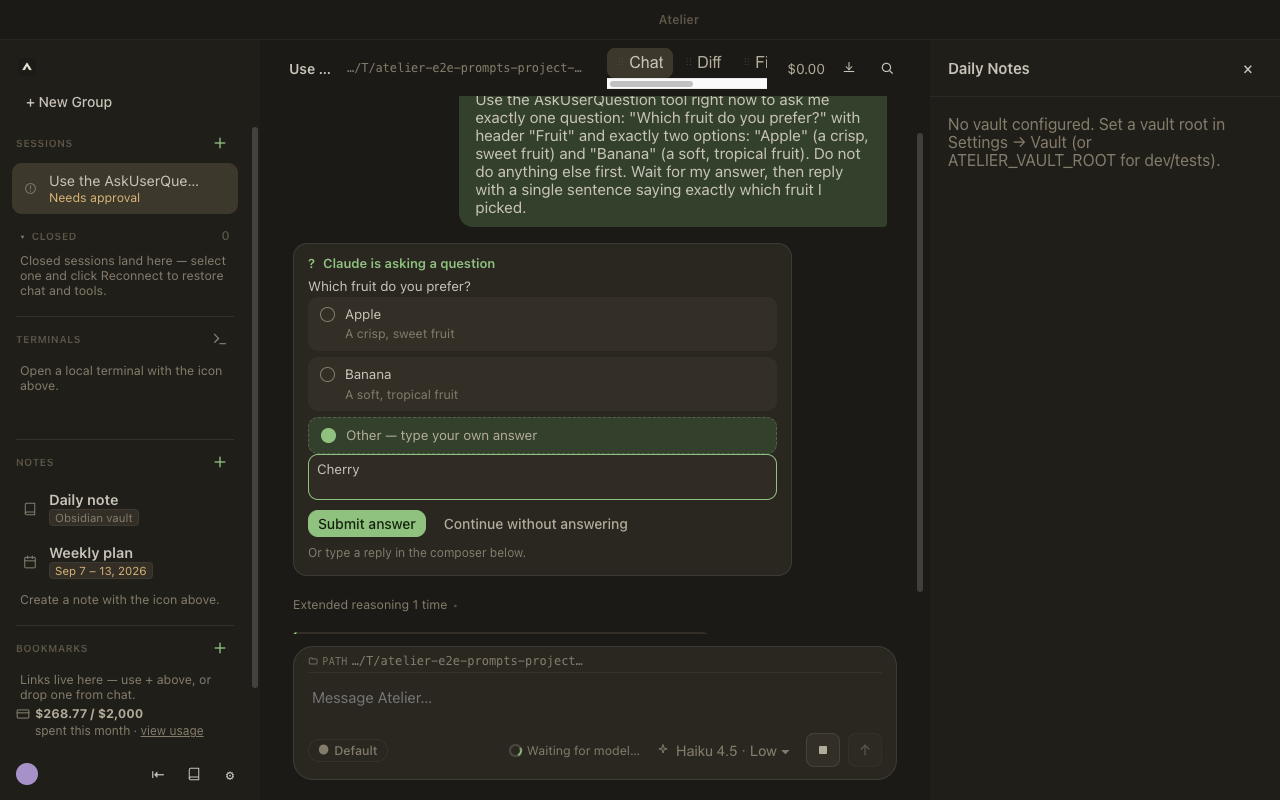
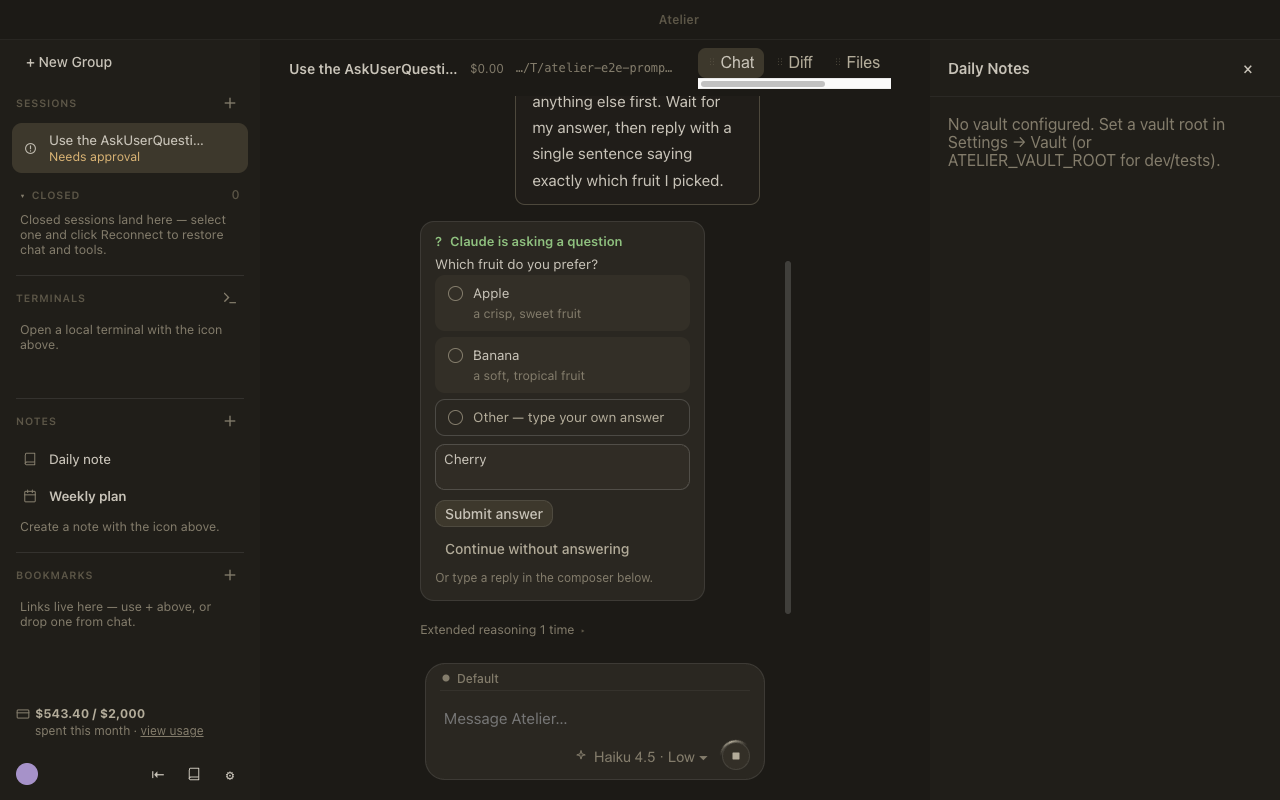
Route interactive-card choices through the existing ⌘ hint overlay.
Make question options real buttons so hold-⌘ letter hints can activate them without stealing numbered sidebar shortcuts, and drop green from selected options, Other input, and Submit.

diff --git a/Features/UI-Design/mocks/index.html b/Features/UI-Design/mocks/index.html
@@ -413,21 +413,23 @@
   .aq-body { padding: 0 14px 13px; display: flex; flex-direction: column; gap: 8px; }
   .aq-question { font-size: 13.5px; line-height: 1.45; color: var(--text-primary); }
   .aq-options { display: flex; flex-direction: column; gap: 6px; }
-  .aq-option { display: flex; align-items: flex-start; gap: 10px; padding: 8px 12px; border: none; border-radius: 10px; background: var(--bg-tint); cursor: pointer; font-size: 13.5px; line-height: 1.4; }
+  .aq-option { display: flex; align-items: flex-start; gap: 10px; width: 100%; padding: 8px 12px; border: 1px solid transparent; border-radius: 10px; background: var(--bg-tint); color: var(--text-primary); cursor: pointer; font-family: var(--font-ui); font-size: 13.5px; line-height: 1.4; text-align: left; appearance: none; }
   .aq-option:hover { background: var(--bg-hover); }
   .aq-option .num { width: 15px; height: 15px; border-radius: 50%; background: transparent; border: 1.5px solid var(--text-tertiary); font-size: 0; flex-shrink: 0; margin-top: 2px; }
   .aq-option .desc { color: var(--text-tertiary); font-size: 12.5px; line-height: 1.4; margin-top: 2px; }
   .aq-card.answered .aq-option { pointer-events: none; opacity: .45; }
-  .aq-card.answered .aq-option.selected { opacity: 1; background: var(--accent-dim); }
-  .aq-card.answered .aq-option.selected .num { background: var(--accent); border-color: var(--accent); }
-  .aq-option.aq-other { border: 1.5px dashed var(--border-strong); background: transparent; color: var(--text-secondary); }
+  .aq-card .aq-option.selected { opacity: 1; border-color: var(--border-strong); background: var(--bg-tint); }
+  .aq-card .aq-option.aq-other.selected { border-style: solid; background: transparent; }
+  .aq-option.aq-other { border: 1px dashed var(--border-strong); background: transparent; color: var(--text-secondary); }
   .aq-other-box { display: none; gap: 6px; }
-  .aq-other-box.show { display: flex; }
-  .aq-other-box textarea { flex: 1; background: var(--bg-input); border: 1px solid var(--accent); border-radius: var(--r-md); color: var(--text-primary); font-family: var(--font-ui); font-size: 13.5px; padding: 6px 8px; resize: none; outline: none; min-height: 32px; }
+  .aq-other-box.show { display: flex; margin-top: 8px; }
+  .aq-other-box textarea { flex: 1; background: var(--bg-input); border: 1px solid var(--border-default); border-radius: var(--r-md); color: var(--text-primary); font-family: var(--font-ui); font-size: 13.5px; padding: 6px 8px; resize: none; outline: none; min-height: 32px; }
+  .aq-other-box textarea:focus { border-color: var(--border-strong); }
   .aq-footer-hint { font-size: 12px; color: var(--text-tertiary); padding-top: 0; line-height: 1.4; }
   .aq-footer-hint a { cursor: pointer; }
   .aq-actions { display: flex; align-items: center; gap: 8px; flex-wrap: wrap; margin-top: 4px; }
   .aq-submit:disabled { opacity: .45; cursor: not-allowed; }
+  .aq-submit, .aq-submit:hover, .aq-submit:disabled:hover { background: var(--bg-active); border-color: var(--border-default); color: var(--text-primary); }
   .aq-question-block + .aq-question-block { margin-top: 10px; padding-top: 10px; border-top: 1px solid var(--border-subtle); }
   .aq-question-block.is-done .aq-question { color: var(--text-secondary); }
   .aq-card.aq-mode-stacked .aq-question-block.is-done .aq-options { display: none; }
@@ -1662,9 +1664,9 @@ src/auth/session-bootstrap.ts:22:    this.scheduleRefresh(loginResponse.expiresA
                     <div class="aq-question-block" id="aq-multi-q0">
                       <div class="aq-question">Which failover phases should this skill cover first?</div>
                       <div class="aq-options" id="aq-multi-q0-options">
-                        <div class="aq-option" onclick="aqMultiPick(0, this)"><div class="num">1</div><div>Sampling only (Phase 1)</div></div>
-                        <div class="aq-option" onclick="aqMultiPick(0, this)"><div class="num">2</div><div>Sampling + throughput (Phases 1–2)</div></div>
-                        <div class="aq-option" onclick="aqMultiPick(0, this)"><div class="num">3</div><div>Full stack when unblocked</div></div>
+                        <button type="button" class="aq-option" onclick="aqMultiPick(0, this)"><div class="num">1</div><div>Sampling only (Phase 1)</div></button>
+                        <button type="button" class="aq-option" onclick="aqMultiPick(0, this)"><div class="num">2</div><div>Sampling + throughput (Phases 1–2)</div></button>
+                        <button type="button" class="aq-option" onclick="aqMultiPick(0, this)"><div class="num">3</div><div>Full stack when unblocked</div></button>
                       </div>
                       <div class="aq-picked-summary" id="aq-multi-q0-summary"></div>
                     </div>
@@ -1674,9 +1676,9 @@ src/auth/session-bootstrap.ts:22:    this.scheduleRefresh(loginResponse.expiresA
                     <div class="aq-question-block" id="aq-multi-q1">
                       <div class="aq-question">Where should generated OMG plans and revert scripts live?</div>
                       <div class="aq-options" id="aq-multi-q1-options">
-                        <div class="aq-option" onclick="aqMultiPick(1, this)"><div class="num">1</div><div>Worktree only (ephemeral)</div></div>
-                        <div class="aq-option" onclick="aqMultiPick(1, this)"><div class="num">2</div><div>Repo path under <code>skills/</code></div></div>
-                        <div class="aq-option aq-other" onclick="aqMultiShowOther(1, this)"><div class="num">3</div><div>Other — type your own path</div></div>
+                        <button type="button" class="aq-option" onclick="aqMultiPick(1, this)"><div class="num">1</div><div>Worktree only (ephemeral)</div></button>
+                        <button type="button" class="aq-option" onclick="aqMultiPick(1, this)"><div class="num">2</div><div>Repo path under <code>skills/</code></div></button>
+                        <button type="button" class="aq-option aq-other" onclick="aqMultiShowOther(1, this)"><div class="num">3</div><div>Other — type your own path</div></button>
                       </div>
                       <div class="aq-other-box" id="aq-multi-q1-other-box">
                         <textarea id="aq-multi-q1-other-input" rows="2" placeholder="e.g. ~/failover-runs/{date}/"></textarea>
@@ -1690,9 +1692,9 @@ src/auth/session-bootstrap.ts:22:    this.scheduleRefresh(loginResponse.expiresA
                     <div class="aq-question-block" id="aq-multi-q2">
                       <div class="aq-question">How should the revert script behave on restore?</div>
                       <div class="aq-options" id="aq-multi-q2-options">
-                        <div class="aq-option" onclick="aqMultiPick(2, this)"><div class="num">2</div><div>Unblock throughput after quota restore</div></div>
-                        <div class="aq-option" onclick="aqMultiPick(2, this)"><div class="num">1</div><div>Sampling rollback only</div></div>
-                        <div class="aq-option" onclick="aqMultiPick(2, this)"><div class="num">3</div><div>Require manual confirmation per phase</div></div>
+                        <button type="button" class="aq-option" onclick="aqMultiPick(2, this)"><div class="num">2</div><div>Unblock throughput after quota restore</div></button>
+                        <button type="button" class="aq-option" onclick="aqMultiPick(2, this)"><div class="num">1</div><div>Sampling rollback only</div></button>
+                        <button type="button" class="aq-option" onclick="aqMultiPick(2, this)"><div class="num">3</div><div>Require manual confirmation per phase</div></button>
                       </div>
                       <div class="aq-picked-summary" id="aq-multi-q2-summary"></div>
                     </div>
@@ -1722,9 +1724,9 @@ src/auth/session-bootstrap.ts:22:    this.scheduleRefresh(loginResponse.expiresA
                 <div class="aq-body">
                   <div class="aq-question">Should the fix also cover the local (non-remote) auth bootstrap path?</div>
                   <div class="aq-options" id="aq1-options">
-                    <div class="aq-option" onclick="answerQuestion('aq1', this)"><div class="num">1</div><div>Yes, apply to both local and remote</div></div>
-                    <div class="aq-option" onclick="answerQuestion('aq1', this)"><div class="num">2</div><div>Remote only for now</div></div>
-                    <div class="aq-option aq-other" onclick="showAqOther('aq1', this)"><div class="num">3</div><div>Other — type your own answer</div></div>
+                    <button type="button" class="aq-option" onclick="answerQuestion('aq1', this)"><div class="num">1</div><div>Yes, apply to both local and remote</div></button>
+                    <button type="button" class="aq-option" onclick="answerQuestion('aq1', this)"><div class="num">2</div><div>Remote only for now</div></button>
+                    <button type="button" class="aq-option aq-other" onclick="showAqOther('aq1', this)"><div class="num">3</div><div>Other — type your own answer</div></button>
                   </div>
                   <div class="aq-other-box" id="aq1-other-box">
                     <textarea id="aq1-other-input" rows="2" placeholder="Type your answer…"></textarea>

diff --git a/e2e/interactive-prompts.spec.ts b/e2e/interactive-prompts.spec.ts
@@ -1,4 +1,4 @@
-import { test, expect, _electron as electron, type ElectronApplication, type Page } from '@playwright/test'
+import { test, expect, _electron as electron, type ElectronApplication, type Locator, type Page } from '@playwright/test'
 import { commentOnReviewSelection, commentOnTranscriptSelection, e2eConfigPath as configPath, openReviewCommentPopover, seedE2eConfig, seedSkipOnboarding, selectReviewPaneText, selectTranscriptCommentText } from './e2e-config'
 import { mkdtempSync, mkdirSync, writeFileSync } from 'node:fs'
 import { tmpdir } from 'node:os'
@@ -57,6 +57,20 @@ async function fillProjectPath(page: Page, path: string): Promise<void> {
 
 async function selectClaudeCodeMode(page: Page): Promise<void> {
   await page.getByTestId('mode-claude-code').click()
+}
+
+async function activateViaKeyboardHint(page: Page, target: Locator): Promise<void> {
+  await target.scrollIntoViewIfNeeded()
+  await page.keyboard.down('Meta')
+  try {
+    await expect(page.getByTestId('keyboard-hints-overlay')).toBeVisible({ timeout: 5_000 })
+    await expect(target).toHaveAttribute('data-keyboard-hint-label', /^[a-z]+$/)
+    const label = await target.getAttribute('data-keyboard-hint-label')
+    expect(label).toBeTruthy()
+    for (const key of label!) await page.keyboard.press(key)
+  } finally {
+    await page.keyboard.up('Meta')
+  }
 }
 
 /** Appends every message row for `sessionId` to the proof-artifact log, tagged with `label` — same pattern as chat-surface-core.spec.ts's logTranscriptState. */
@@ -141,18 +155,41 @@ test.describe('05-interactive-prompts', () => {
     await expect(card.getByTestId('aq-submit')).toBeDisabled()
     await otherBox.getByTestId('aq-other-input').fill('Cherry')
     await expect(card.getByTestId('aq-submit')).toBeEnabled()
+    await expect(otherBox).toHaveCSS('margin-top', '8px')
+    const focusedInputBorder = await otherBox
+      .getByTestId('aq-other-input')
+      .evaluate((el) => getComputedStyle(el).borderColor)
+    const selectedOtherBorder = await card
+      .getByTestId('aq-option-other')
+      .evaluate((el) => getComputedStyle(el).borderColor)
+    expect(focusedInputBorder).toBe(selectedOtherBorder)
     await page.screenshot({ path: join(artifactsDir, '05-askuserquestion-other-freetext.png') })
 
-    // Switching back to a listed option closes the box again.
-    await appleOption.click()
+    // The existing hold-⌘ hint overlay invokes the option with the same
+    // select-only semantics as a click; explicit Submit remains required.
+    await activateViaKeyboardHint(page, appleOption)
     await expect(otherBox).not.toHaveClass(/show/)
 
     // bug #52: a single click only selects — the card stays pending until an
     // explicit Submit click.
     await expect(card).toHaveAttribute('data-status', 'pending')
     await expect(appleOption).toHaveClass(/selected/)
+    const appleBackground = await appleOption.evaluate((el) => getComputedStyle(el).backgroundColor)
+    const bananaBackground = await options.filter({ hasText: 'Banana' }).evaluate((el) => getComputedStyle(el).backgroundColor)
+    expect(appleBackground).toBe(bananaBackground)
+    await expect(appleOption.locator('.num')).toHaveCSS('background-color', 'rgba(0, 0, 0, 0)')
     const submitButton = card.getByTestId('aq-submit')
     await expect(submitButton).toBeEnabled()
+    const accentColor = await page.evaluate(() => {
+      const probe = document.createElement('div')
+      probe.style.color = 'var(--accent)'
+      document.body.appendChild(probe)
+      const color = getComputedStyle(probe).color
+      probe.remove()
+      return color
+    })
+    await expect(card.locator('.aq-head')).toHaveCSS('color', accentColor)
+    await expect(submitButton).not.toHaveCSS('background-color', accentColor)
     await submitButton.click()
 
     // Card flips to resolved; summary merges into the tool-activity row (AskUserQuestion tool + card).
@@ -270,7 +307,7 @@ test.describe('05-interactive-prompts', () => {
     await expect(permCard1.getByTestId('perm-cmd')).toContainText('npm test')
     await page.screenshot({ path: join(artifactsDir, '05-permission.png') })
 
-    await permCard1.getByTestId('perm-deny').click()
+    await activateViaKeyboardHint(page, permCard1.getByTestId('perm-deny'))
     const denySummary = page.locator('[data-testid="tool-sequence-summary"]').filter({ hasText: /permission denied/i }).last()
     await expect(denySummary).toBeVisible({ timeout: 10_000 })
     await expect(denySummary.locator('.tool-sequence-summary-text')).toContainText('npm test')
@@ -307,7 +344,7 @@ test.describe('05-interactive-prompts', () => {
     await expect(permCard2).toBeVisible({ timeout: 30_000 })
     await expect(permCard2.getByTestId('perm-always-allow')).toBeVisible()
     await permCard2.getByTestId('perm-always-allow').check()
-    await permCard2.getByTestId('perm-allow').click()
+    await activateViaKeyboardHint(page, permCard2.getByTestId('perm-allow'))
     const allowSummary = page.locator('[data-testid="tool-sequence-summary"]').filter({ hasText: /permission allowed/i }).last()
     await expect(allowSummary).toBeVisible({ timeout: 10_000 })
     await expect(allowSummary.locator('.tool-sequence-summary-text')).toContainText('npm test')
@@ -400,7 +437,7 @@ test.describe('05-interactive-prompts', () => {
     await expect(reviewPane).toHaveCount(0)
 
     // Reject: summary merges into the tool-activity row; expand to read the note.
-    await planCard1.getByTestId('plan-reject').click()
+    await activateViaKeyboardHint(page, planCard1.getByTestId('plan-reject'))
     const rejectSummary = page.locator('[data-testid="tool-sequence-summary"]').filter({ hasText: /proposed plan — rejected/i }).last()
     await expect(rejectSummary).toBeVisible({ timeout: 10_000 })
     await expect(planCard1.getByTestId('plan-card-fold')).toHaveCount(0)
@@ -437,7 +474,7 @@ test.describe('05-interactive-prompts', () => {
     await expect(reviewPane2).toHaveAttribute('data-has-plan-diff', 'true')
     await expect(reviewPane2.getByTestId('response-review-content')).toBeVisible()
     await page.getByTestId('response-review-close').click()
-    await planCard2.getByTestId('plan-accept').click()
+    await activateViaKeyboardHint(page, planCard2.getByTestId('plan-accept'))
     const acceptSummary = page.locator('[data-testid="tool-sequence-summary"]').filter({ hasText: /proposed plan — accepted/i }).last()
     await expect(acceptSummary).toBeVisible({ timeout: 10_000 })
     await expect(planCard2.getByTestId('plan-card-fold')).toHaveCount(0)

diff --git a/src/renderer/src/styles/global.css b/src/renderer/src/styles/global.css
@@ -1960,24 +1960,23 @@ input[type='range'] {
 .aq-body { padding: 0 14px 13px; display: flex; flex-direction: column; gap: 8px; }
 .aq-question { font-size: 13.5px; line-height: 1.45; color: var(--text-primary); }
 .aq-options { display: flex; flex-direction: column; gap: 6px; }
-.aq-option { display: flex; align-items: flex-start; gap: 10px; padding: 8px 12px; border: none; border-radius: 10px; background: var(--bg-tint); cursor: pointer; font-size: 13.5px; line-height: 1.4; }
+.aq-option { display: flex; align-items: flex-start; gap: 10px; width: 100%; padding: 8px 12px; border: 1px solid transparent; border-radius: 10px; background: var(--bg-tint); color: var(--text-primary); cursor: pointer; font-family: var(--font-ui); font-size: 13.5px; line-height: 1.4; text-align: left; appearance: none; }
 .aq-option:hover { background: var(--bg-hover); }
 .aq-option .num { width: 15px; height: 15px; border-radius: 50%; background: transparent; border: 1.5px solid var(--text-tertiary); font-size: 0; flex-shrink: 0; margin-top: 2px; }
 .aq-option .desc { color: var(--text-tertiary); font-size: 12.5px; line-height: 1.4; margin-top: 2px; }
 .aq-card.answered .aq-option { pointer-events: none; opacity: .45; }
-.aq-card.answered .aq-option.selected { opacity: 1; background: var(--accent-dim); }
-.aq-card.answered .aq-option.selected .num { background: var(--accent); border-color: var(--accent); }
-/* Pending pick (not yet submitted) — same accent treatment as the answered
-   state so a click gives clear feedback before the explicit Submit. */
-.aq-card:not(.answered) .aq-option.selected { background: var(--accent-dim); }
-.aq-card:not(.answered) .aq-option.selected .num { background: var(--accent); border-color: var(--accent); }
-.aq-option.aq-other { border: 1.5px dashed var(--border-strong); background: transparent; color: var(--text-secondary); }
+.aq-card .aq-option.selected { opacity: 1; border-color: var(--border-strong); background: var(--bg-tint); }
+.aq-card .aq-option.aq-other.selected { border-style: solid; background: transparent; }
+.aq-option.aq-other { border: 1px dashed var(--border-strong); background: transparent; color: var(--text-secondary); }
 .aq-other-box { display: none; gap: 6px; }
-.aq-other-box.show { display: flex; }
-.aq-other-box textarea { flex: 1; background: var(--bg-input); border: 1px solid var(--accent); border-radius: var(--r-md); color: var(--text-primary); font-family: var(--font-ui); font-size: 13.5px; padding: 6px 8px; resize: none; outline: none; min-height: 32px; }
+.aq-other-box.show { display: flex; margin-top: 8px; }
+.aq-other-box textarea { flex: 1; background: var(--bg-input); border: 1px solid var(--border-default); border-radius: var(--r-md); color: var(--text-primary); font-family: var(--font-ui); font-size: 13.5px; padding: 6px 8px; resize: none; outline: none; min-height: 32px; }
+.aq-other-box textarea:focus { border-color: var(--border-strong); }
 .aq-actions { display: flex; align-items: center; gap: 8px; flex-wrap: wrap; margin-top: 2px; }
+.aq-submit,
+.aq-submit:hover,
+.aq-submit:disabled:hover { background: var(--bg-active); border-color: var(--border-default); color: var(--text-primary); }
 .aq-submit:disabled { opacity: .45; cursor: not-allowed; }
-.aq-submit:disabled:hover { background: var(--accent); border-color: var(--accent); }
 .aq-cancel { color: var(--text-secondary); }
 .aq-cancel:hover { color: var(--text-primary); }
 .aq-footer-hint { font-size: 12px; color: var(--text-tertiary); padding-top: 0; line-height: 1.4; }

diff --git a/src/renderer/src/components/chat/AskUserQuestionCard.tsx b/src/renderer/src/components/chat/AskUserQuestionCard.tsx
@@ -123,7 +123,8 @@ export default function AskUserQuestionCard({
         <div className="aq-question">{q.question}</div>
         <div className="aq-options" data-testid="aq-options">
           {q.options.map((opt, optIndex) => (
-            <div
+            <button
+              type="button"
               key={opt.label}
               className={`aq-option${selected === opt.label || pendingPick === opt.label ? ' selected' : ''}`}
               data-testid="aq-option"
@@ -134,17 +135,18 @@ export default function AskUserQuestionCard({
                 {opt.label}
                 <div className="desc">{opt.description}</div>
               </div>
-            </div>
+            </button>
           ))}
           {!resolved ? (
-            <div
+            <button
+              type="button"
               className={`aq-option aq-other${otherSelected ? ' selected' : ''}`}
               data-testid="aq-option-other"
               onClick={() => pickOther(qIndex)}
             >
               <div className="num">{q.options.length + 1}</div>
               <div>Other — type your own answer</div>
-            </div>
+            </button>
           ) : null}
         </div>
         {!resolved ? (

diff --git a/Features/chat-interactive-card-shortcuts/spec.md b/Features/chat-interactive-card-shortcuts/spec.md
@@ -1,0 +1,52 @@
+# Keyboard shortcuts for chat interactive cards
+
+## User flow
+
+1. When a pending question, permission, or plan card is visible, hold ⌘.
+2. The existing Vimium-style keyboard-hint overlay assigns a letter badge to
+   every interactive card option and action.
+3. While still holding ⌘, type the displayed letter (or letter sequence) to
+   invoke that control.
+4. AskUserQuestion choices select exactly like a click. Single-question
+   answers still require explicit Submit, and multi-question cards still
+   advance through the stepper.
+5. Permission and plan buttons activate through the same hint mechanism.
+6. The existing `⌘1`, `⌘2`, etc. numbered sidebar-row shortcuts remain
+   unchanged and never also activate a chat card.
+
+## UI
+
+Reuse the global keyboard hints defined by
+`Features/keyboard-hints/spec.md` and `KeyboardHintsOverlay`. Permission and
+plan actions are already buttons. Render `.aq-option` and
+`.aq-option.aq-other` as real buttons so the existing
+`button:not([disabled])` target collector includes them. Do not render
+permanent shortcut labels inside cards.
+
+The AskUserQuestion card deprecates green as an interaction-state language:
+
+- Keep `.aq-head` green (`var(--accent)`); the title is the sole green
+  treatment in this card.
+- A pending `.aq-option.selected` keeps its original surface and gains a
+  neutral `var(--border-strong)` border. It does not gain a green background
+  or filled green radio.
+- The free-text textarea uses a neutral `var(--border-strong)` focus border,
+  with 8px between the Other row and `.aq-other-box`.
+- `.aq-submit` uses neutral panel/hover and border/text tokens, not
+  `.btn-allow`'s green background.
+
+## Done criteria
+
+- [ ] Every pending AskUserQuestion option, including Other, receives and
+      responds to an existing keyboard-hint letter.
+- [ ] Permission and plan actions respond through the same hint overlay.
+- [ ] Numbered sidebar-row shortcuts do not activate card controls.
+- [ ] AskUserQuestion retains explicit Submit behavior.
+- [ ] Resolved cards no longer react to the shortcuts.
+- [ ] Existing click behavior remains unchanged.
+- [ ] Pending selected options use a neutral border with no background
+      change or green radio fill.
+- [ ] The Other textarea has neutral focus chrome and 8px separation.
+- [ ] Submit answer has no green background; only the card title remains
+      green.
+- [ ] `npm run build` and `npm run test:e2e:affected -- --base main` pass.
